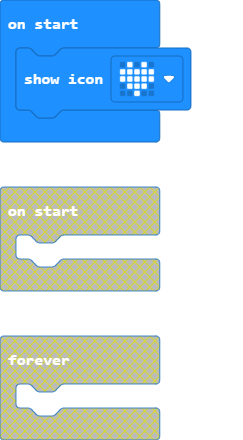
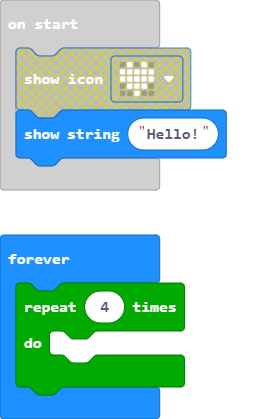
Update pxt.json, main.blocks, main.ts

diff --git a/main.ts b/main.ts
@@ -1,1 +1,9 @@
-basic.showIcon(IconNames.Heart)
+basic.showString("Hello!")
+basic.forever(function () {
+    for (let index = 0; index < 4; index++) {
+    	
+        basic.showNumber(0)
+
+        basic.pause(100)
+    }
+})
